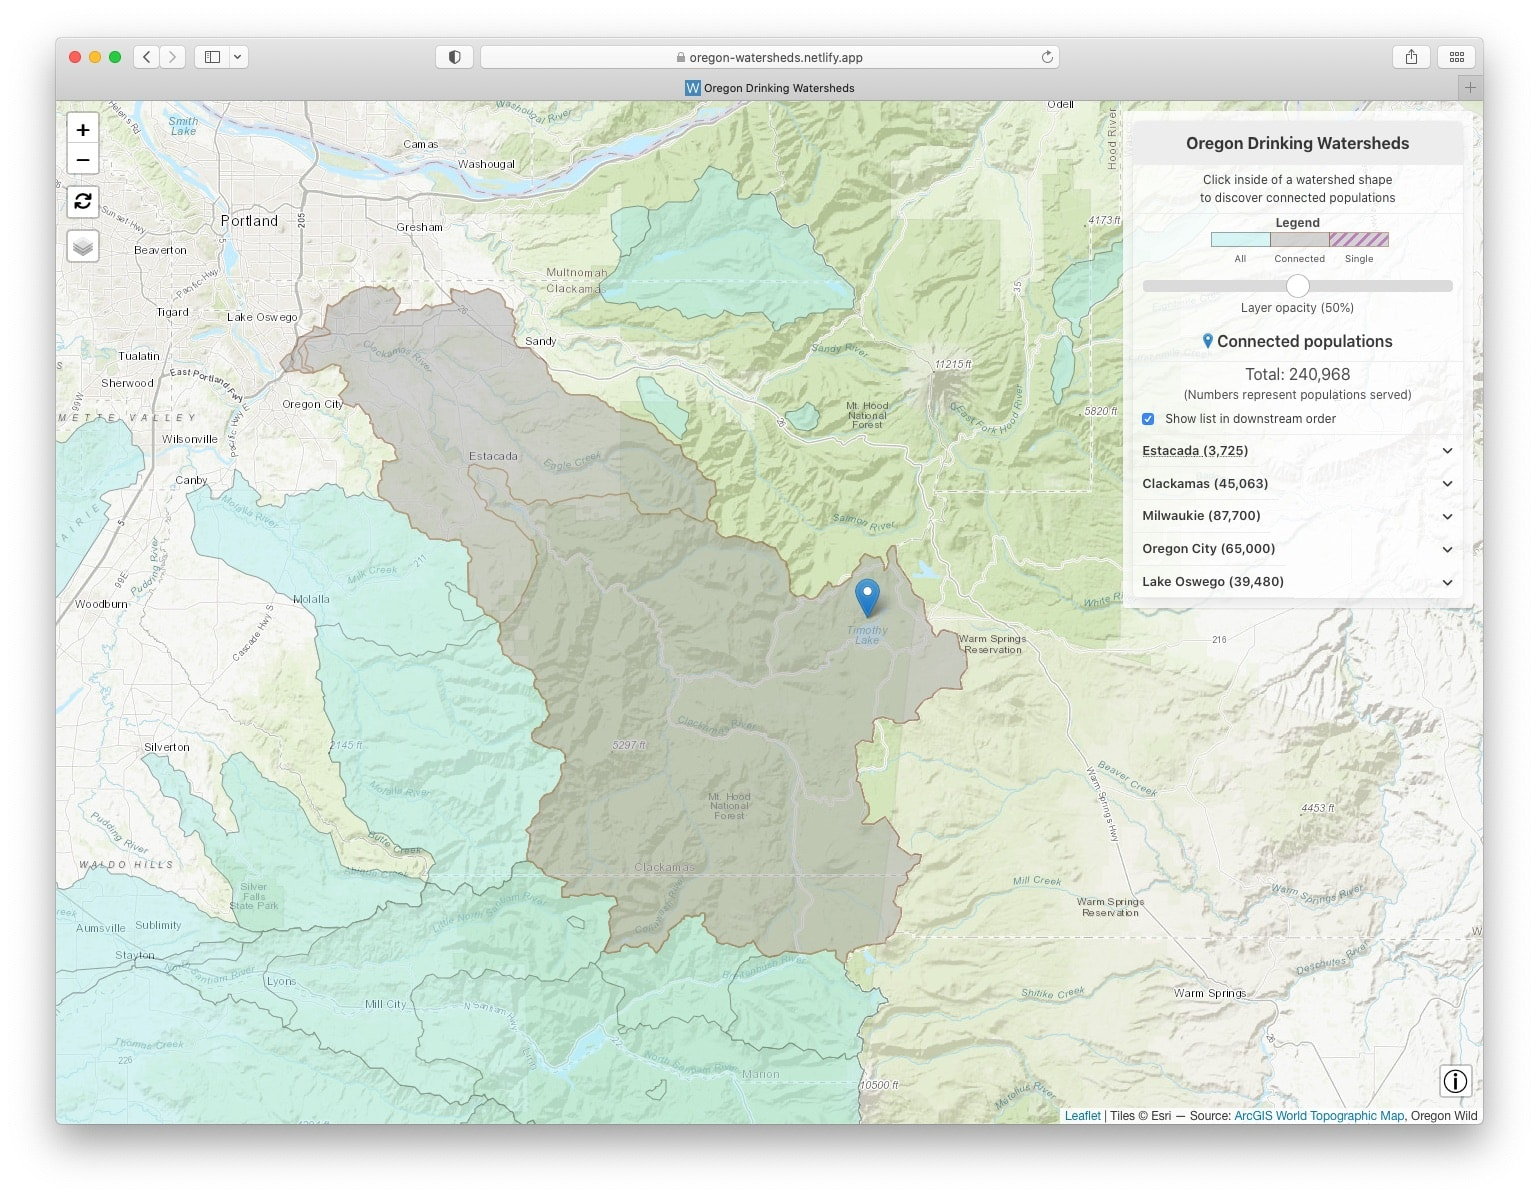
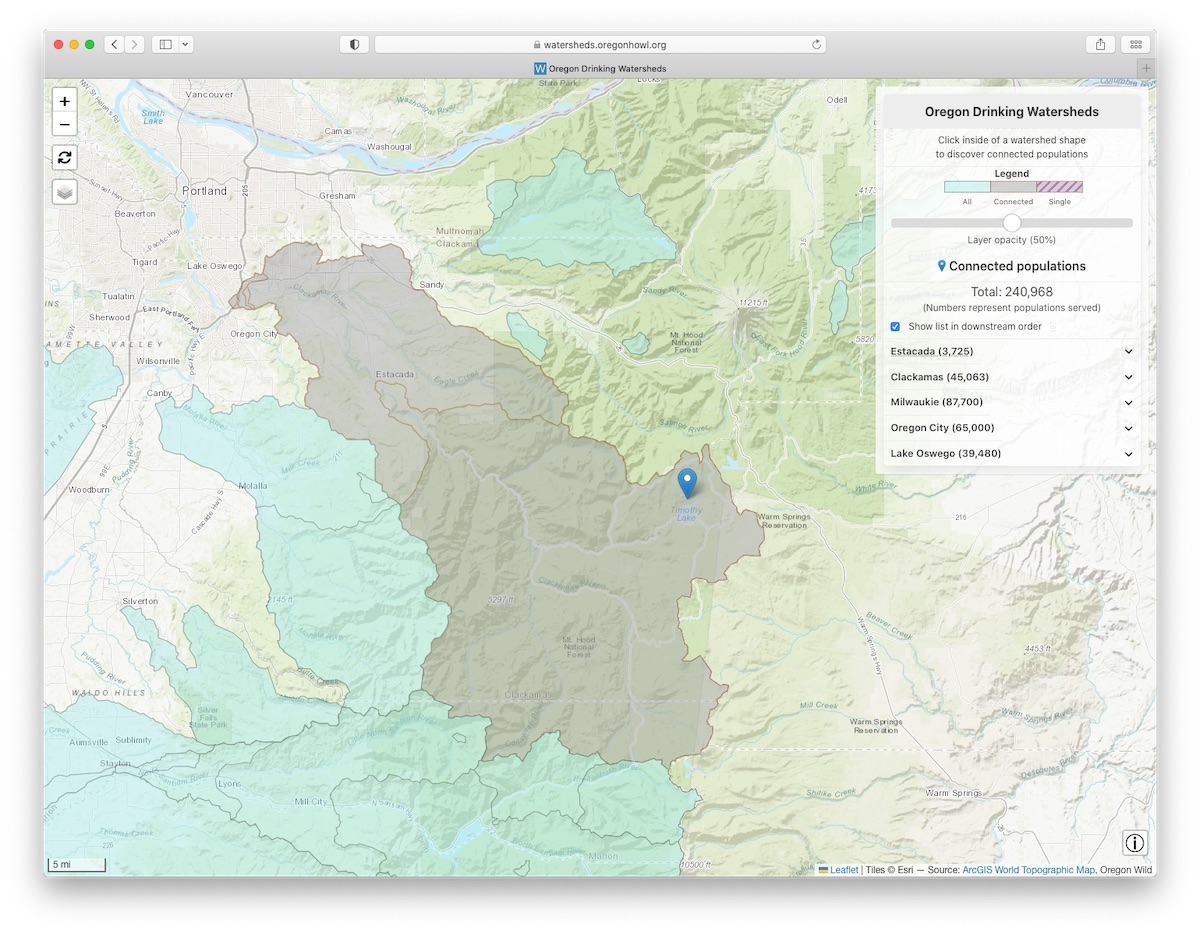
Edit post

diff --git a/content/post/2022-10-21-oregon-watersheds.md b/content/post/2022-10-21-oregon-watersheds.md
@@ -1,0 +1,111 @@
+---
+title: 'Oregon Drinking Watersheds'
+tags:
+  - leaflet
+  - howl
+  - oregonwild
+date: 2022-10-21T00:00:00.000Z
+---
+### Who's drinking water is influenced by any given spot on the map?
+
+That is the question [Oregon Wild](https://oregonwild.org/) wants to be able to answer at a moment's notice, and that's the subject of my latest volunteer project.
+
+[Oregon Wild](https://oregonwild.org/) needs the data, and a tool, to easily understand the full extent of Oregon's drinking watersheds and how are populations connected to any Oregon location through common watersheds.
+
+Many thanks to Erik Fernandez of [Oregon Wild](https://oregonwild.org/) for giving me the opportunity to work on this project!
+
+<!--more-->
+
+### Data analysis and a web application
+
+The project had two parts. First, generating a GIS dataset from multiple sources. Second, delivering a web application that could be easily used by anyone to view Oregon's drinking watersheds and discover how populations and communities are interconnected through them.
+
+On this post, I introduce the web application: how to access, how to use it, and how I built it. On an upcoming post, I will describe the process that we went through to compile and assemble the underlying data.
+
+### Accessing the web application
+
+To access the web application, head over to [https://watersheds.oregonhowl.org](https://watersheds.oregonhowl.org/). The site is also embedded in the [HOWL](https://oregonhowl.org/) site as a new 'spotlight'.
+
+<a align="center" href="https://watersheds.oregonhowl.org/">
+	<img src="/images/uploads/oregon-watersheds.jpg"/>
+</a>
+
+You will see a web map centered in Oregon, with a turquoise polygon layer, representing the geographical extent of Oregon's drinking watersheds.
+
+* **Top-left** - Controls for zooming, view reset, base maps and overlays.
+
+* **Top-right**, An information panel that displays data as you interact with the map. You can adjust the opacity of the watersheds layer by moving the slider left or right.
+
+* **Bottom-right**, An "About" control used to display general information about the project.
+
+### Viewing watersheds
+
+Click on a spot within any of the turquoise polygons. In the example below, we show that the picked spot near Timothy Lake, connects 240,968 people through the Clackamas River watershed, which is highlighted in gray on the map.
+
+A disturbance near that particular spot could potentially impact the drinking water of Estacada, Clackamas, Milwaukie, Oregon City and Lake Oswego communities!
+
+<p align="center">
+	<img src="/images/uploads/oregon-watersheds-spot.jpg"/>
+</p>
+
+By default, the list of communities is sorted by population in descending order. But it can also be shown in "downstream" order by clicking on the checkbox.
+
+Clicking on the community name (or the down arrow) displays more details about the water system for that community, and also highlights its entire watershed using a purple stripe pattern.
+
+<p align="center">
+	<img src="/images/uploads/oregon-watersheds-detail.jpg"/>
+</p>
+
+### Available base map and overlay layers
+
+We have included a number of layers to help customize the view.
+
+<p align="center">
+	<img src="/images/uploads/oregon-watersheds-layers.jpg"/>
+</p>
+
+Select among three base maps: [World Topographic Map](http://www.arcgis.com/home/item.html?id=30e5fe3149c34df1ba922e6f5bbf808f) (default), [OpenStreetMap](https://www.openstreetmap.org/about), or [World Imagery](http://www.arcgis.com/home/item.html?id=10df2279f9684e4a9f6a7f08febac2a9). Pick one or more overlay layers: [Oregon DEQ Hydrography](https://arcgis.deq.state.or.us/arcgis/rest/services/WQ/DEQ_Streams/MapServer/0), [Township and Range Grid](https://en.wikipedia.org/wiki/Public_Land_Survey_System), and [State Boundary](https://en.wikipedia.org/wiki/Oregon).
+
+### Embedding in a web site
+
+The web application can be easily embedded in any web site by using the html `iframe` tag. Simply insert an `iframe` tag in your post or page with a link to site, like shown in the example below.
+
+Notice how it is not merely an image, but the active Oregon Drinking Watersheds site which you can fully interact with.
+
+<iframe width="100%" height="600" src="https://watersheds.oregonhowl.org/" frameborder="0"></iframe>
+
+The code used to display the site above is:
+
+<code style="font-size: 12px;">&lt;iframe width="100%" height="600" src=&quot;https://watersheds.oregonhowl.org/&quot; frameborder="0"&gt;&lt;/iframe&gt;</code>
+
+### Application building blocks
+
+The [Open Source application](https://github.com/jimmyangel/watersheds) takes advantage of the following building blocks:
+
+#### Mapping with [Leaflet](https://leafletjs.com/)
+
+For this application, I decided to use [Leaflet](https://leafletjs.com/), which in my experience, is the Open Source mapping library that delivers the quickest development time.
+
+I have used [MapLibre](https://maplibre.org/) in the past because of its excellent performance, especially when accessing vector tiles, and I mulled over whether to use it for this project or not. I also considered [OpenLayers](https://openlayers.org/), which offers a vast array of geo-processing capabilities. In the end, for this relatively simple application, nothing beats [Leaflet's](https://leafletjs.com/) ease of use and healthy plug-in ecosystem.
+
+I augmented [Leaflet's](https://leafletjs.com/) capabilities with the following plug-ins:
+
+* [ESRI Leaflet](https://developers.arcgis.com/esri-leaflet/) - The Government-hosted "Oregon DEQ Hydrography" and "BLM Township and Range Grid" overlay layers are based on [ESRI's ArcGIS](https://www.esri.com/en-us/arcgis/about-arcgis/overview) mapping services. This plug-in simplifies access to these layers.
+
+* [Leaflet PIP](https://github.com/mapbox/leaflet-pip) - This plug-in developed by [Mapbox](https://www.mapbox.com/), provides a convenient way of finding overlapping polygons under a given set of coordinates, which is **exactly** what I needed to do to expose connected watersheds.
+
+#### CSS with [Bulma](https://bulma.io/)
+
+Dealing with CSS can be a real pain. So many options and quirks! That's why I went with [Bulma](https://bulma.io/), an easy to use and customizable CSS framework that can be tweaked to load only the pieces that are actually being used. I have used [Bulma](https://bulma.io/) in other projects and I enjoy its simplicity and flexibility.
+
+#### HTML templating with [Handlebars](https://handlebarsjs.com/)
+
+I really like to keep all HTML out of the Javascript application code. [Handlebars](https://handlebarsjs.com/) allows me to use templates to easily render HTML while keeping presentation and logic nicely separated.
+
+---
+
+On this post I described the latest web application I developed for [Oregon Wild](https://oregonwild.org/) as a volunteer. I described its usage and capabilities, as well as the building blocks I used to create the site.
+
+I will talk about the underlying data on an upcoming post.
+
+Please contact me if you have any feedback or if you see any errors that need to be corrected.
